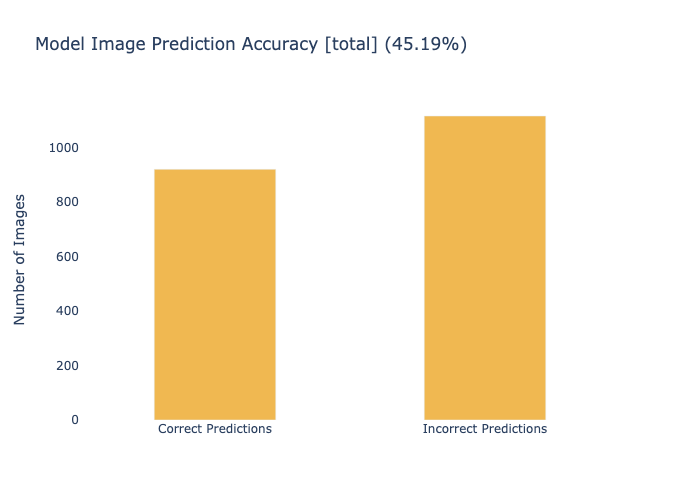
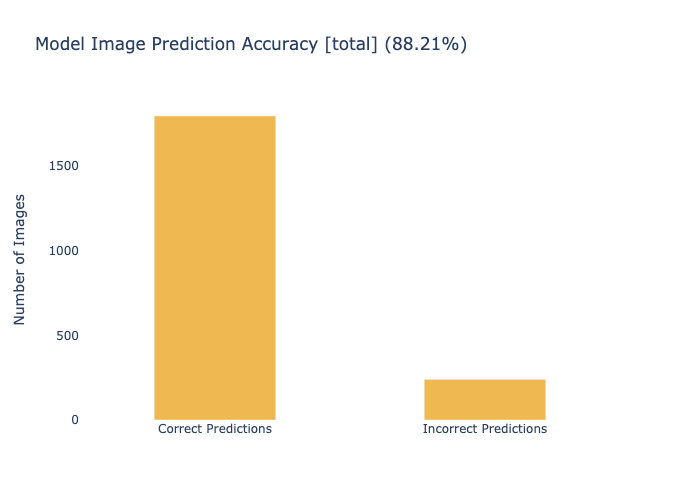
g

diff --git a/jobs/updater.py b/jobs/updater.py
@@ -4,7 +4,7 @@ from apscheduler.schedulers.background import BackgroundScheduler
 def start():
     from .jobs import aggregate_and_retrain_model, categorize_uncategorized_images
     scheduler = BackgroundScheduler()
-    scheduler.add_job(aggregate_and_retrain_model, 'interval', hours=5) #TODO: review
+    scheduler.add_job(aggregate_and_retrain_model, 'interval', minutes=10) #TODO: review
     scheduler.add_job(categorize_uncategorized_images, 'interval', seconds=60)
 
     scheduler.start()

diff --git a/vizualization_tools/model accuracy.py b/vizualization_tools/model accuracy.py
@@ -2,10 +2,10 @@ import plotly.express as px
 import plotly.io as pio
 
 # Number of total images
-total_images = 2038
+total_images = 2036
 
 # Number of correctly predicted images
-correct_predictions = 921
+correct_predictions = 1796
 
 # Calculate the accuracy percentage
 accuracy_percentage = (correct_predictions / total_images) * 100
